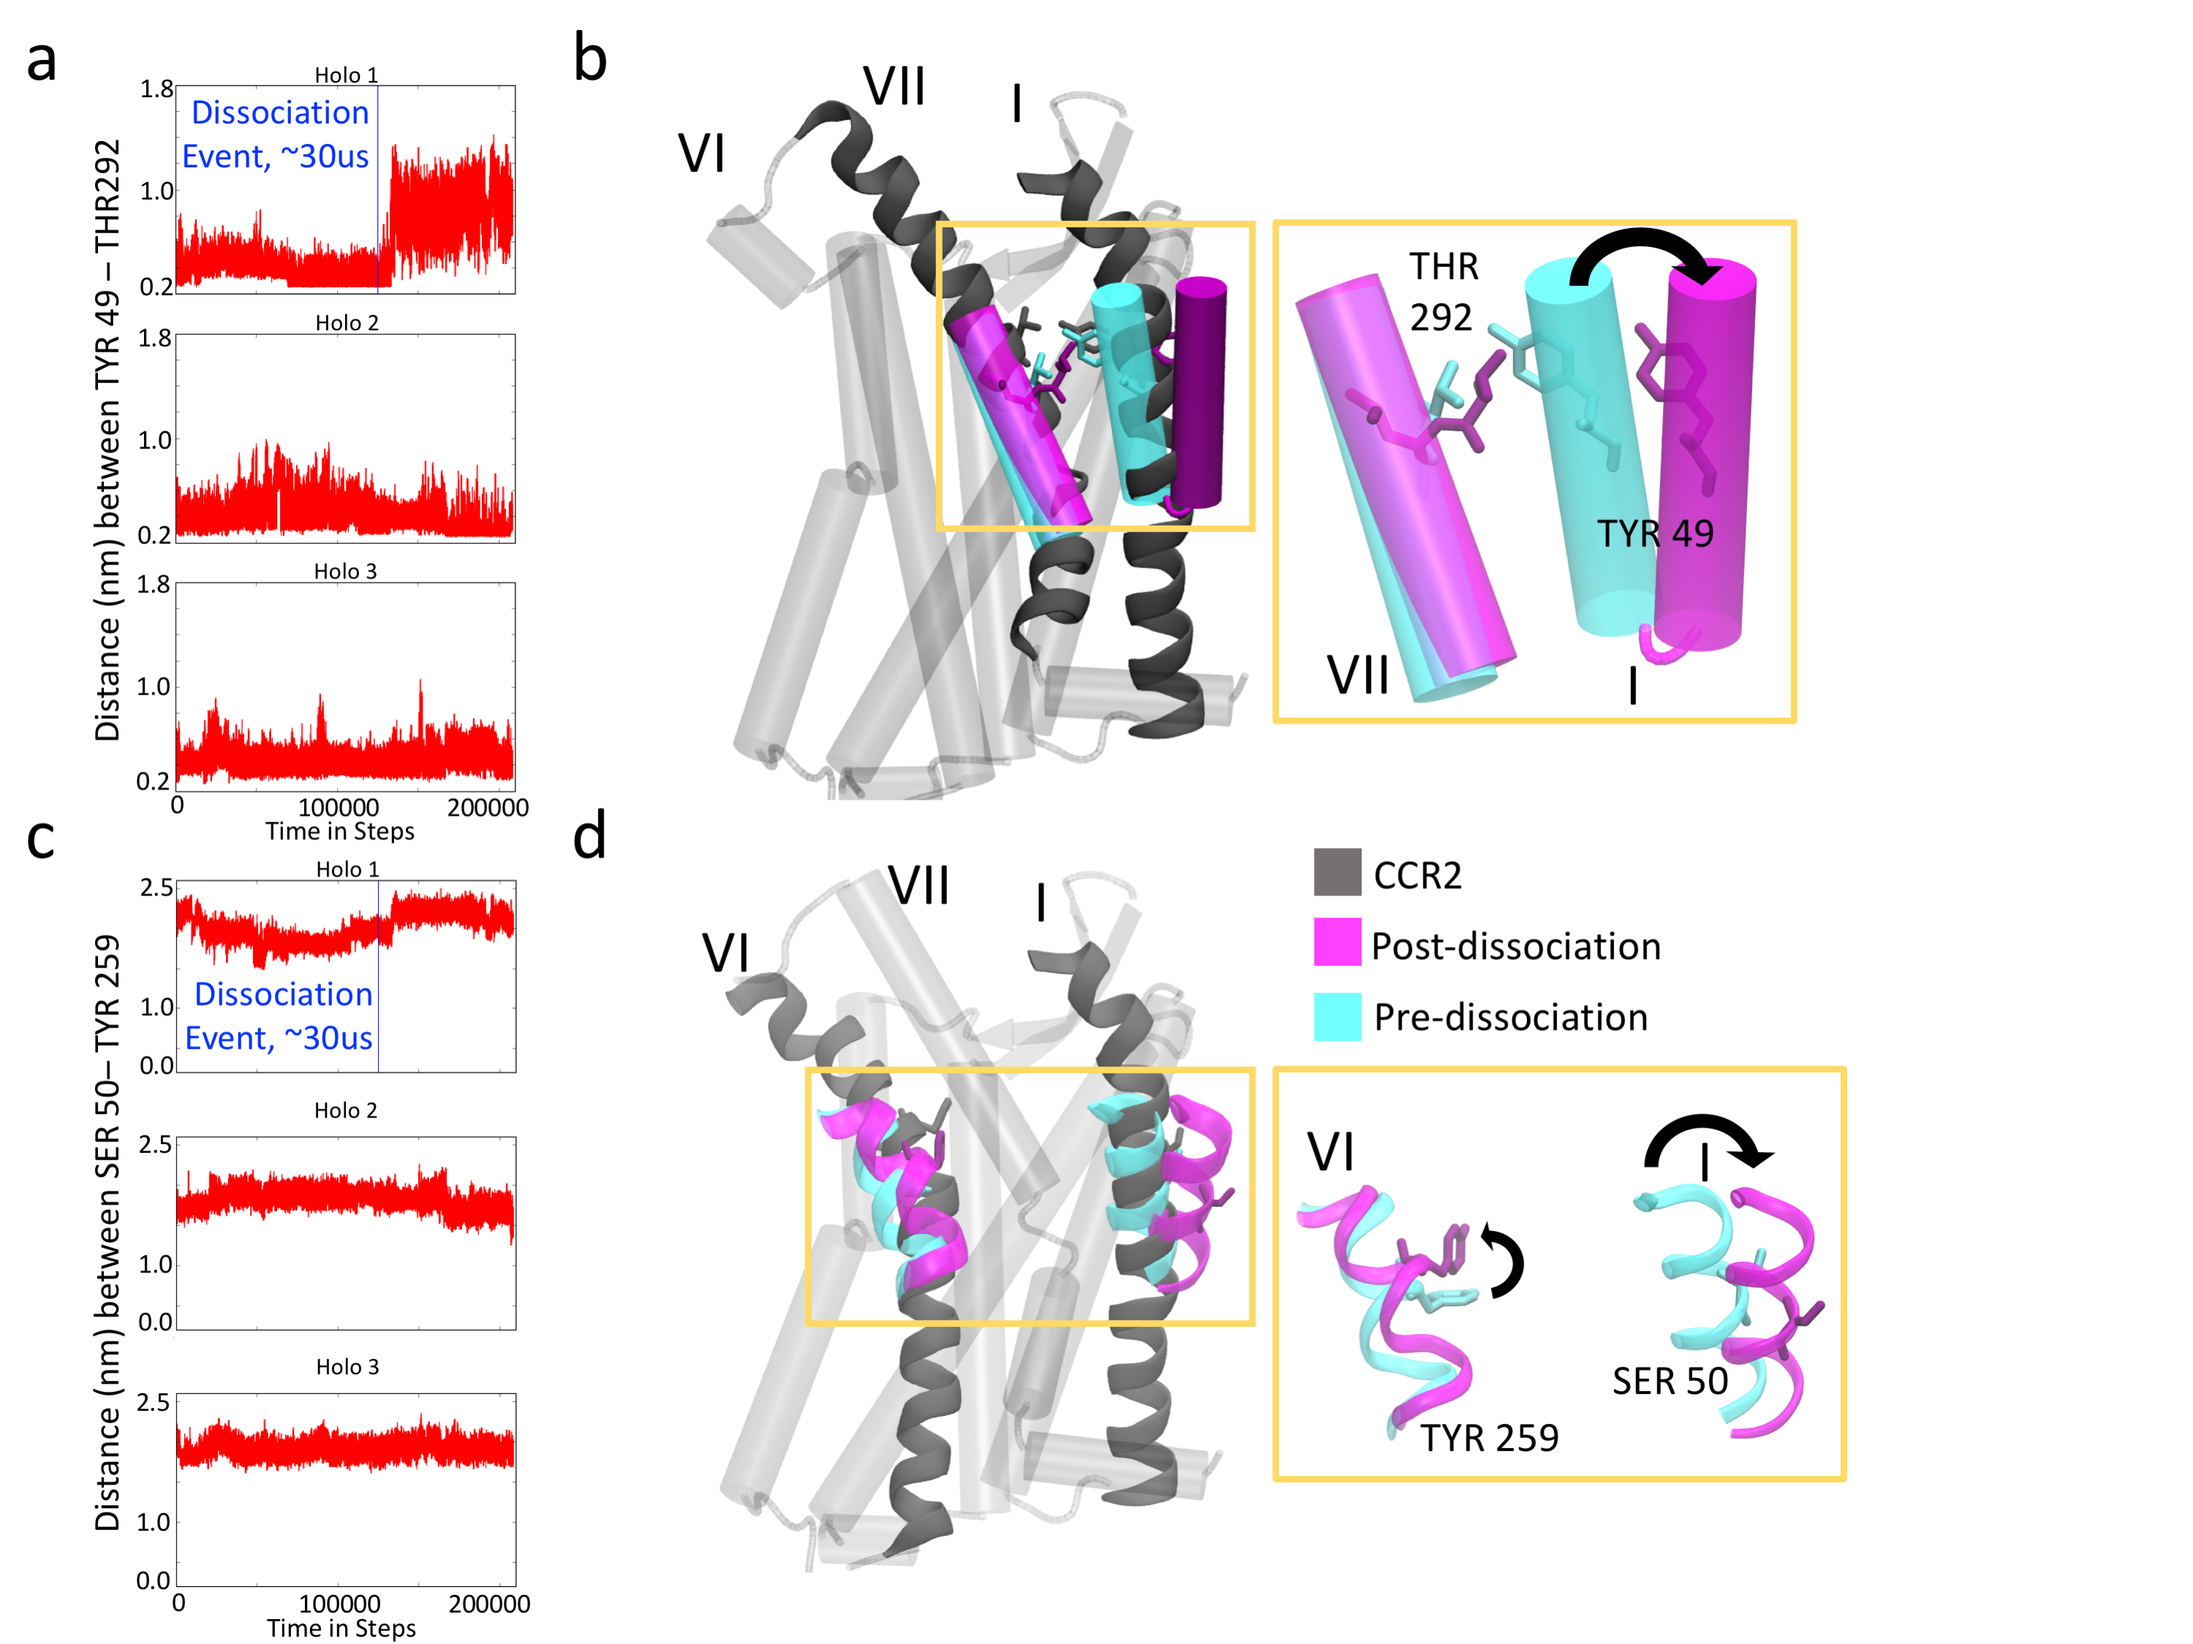
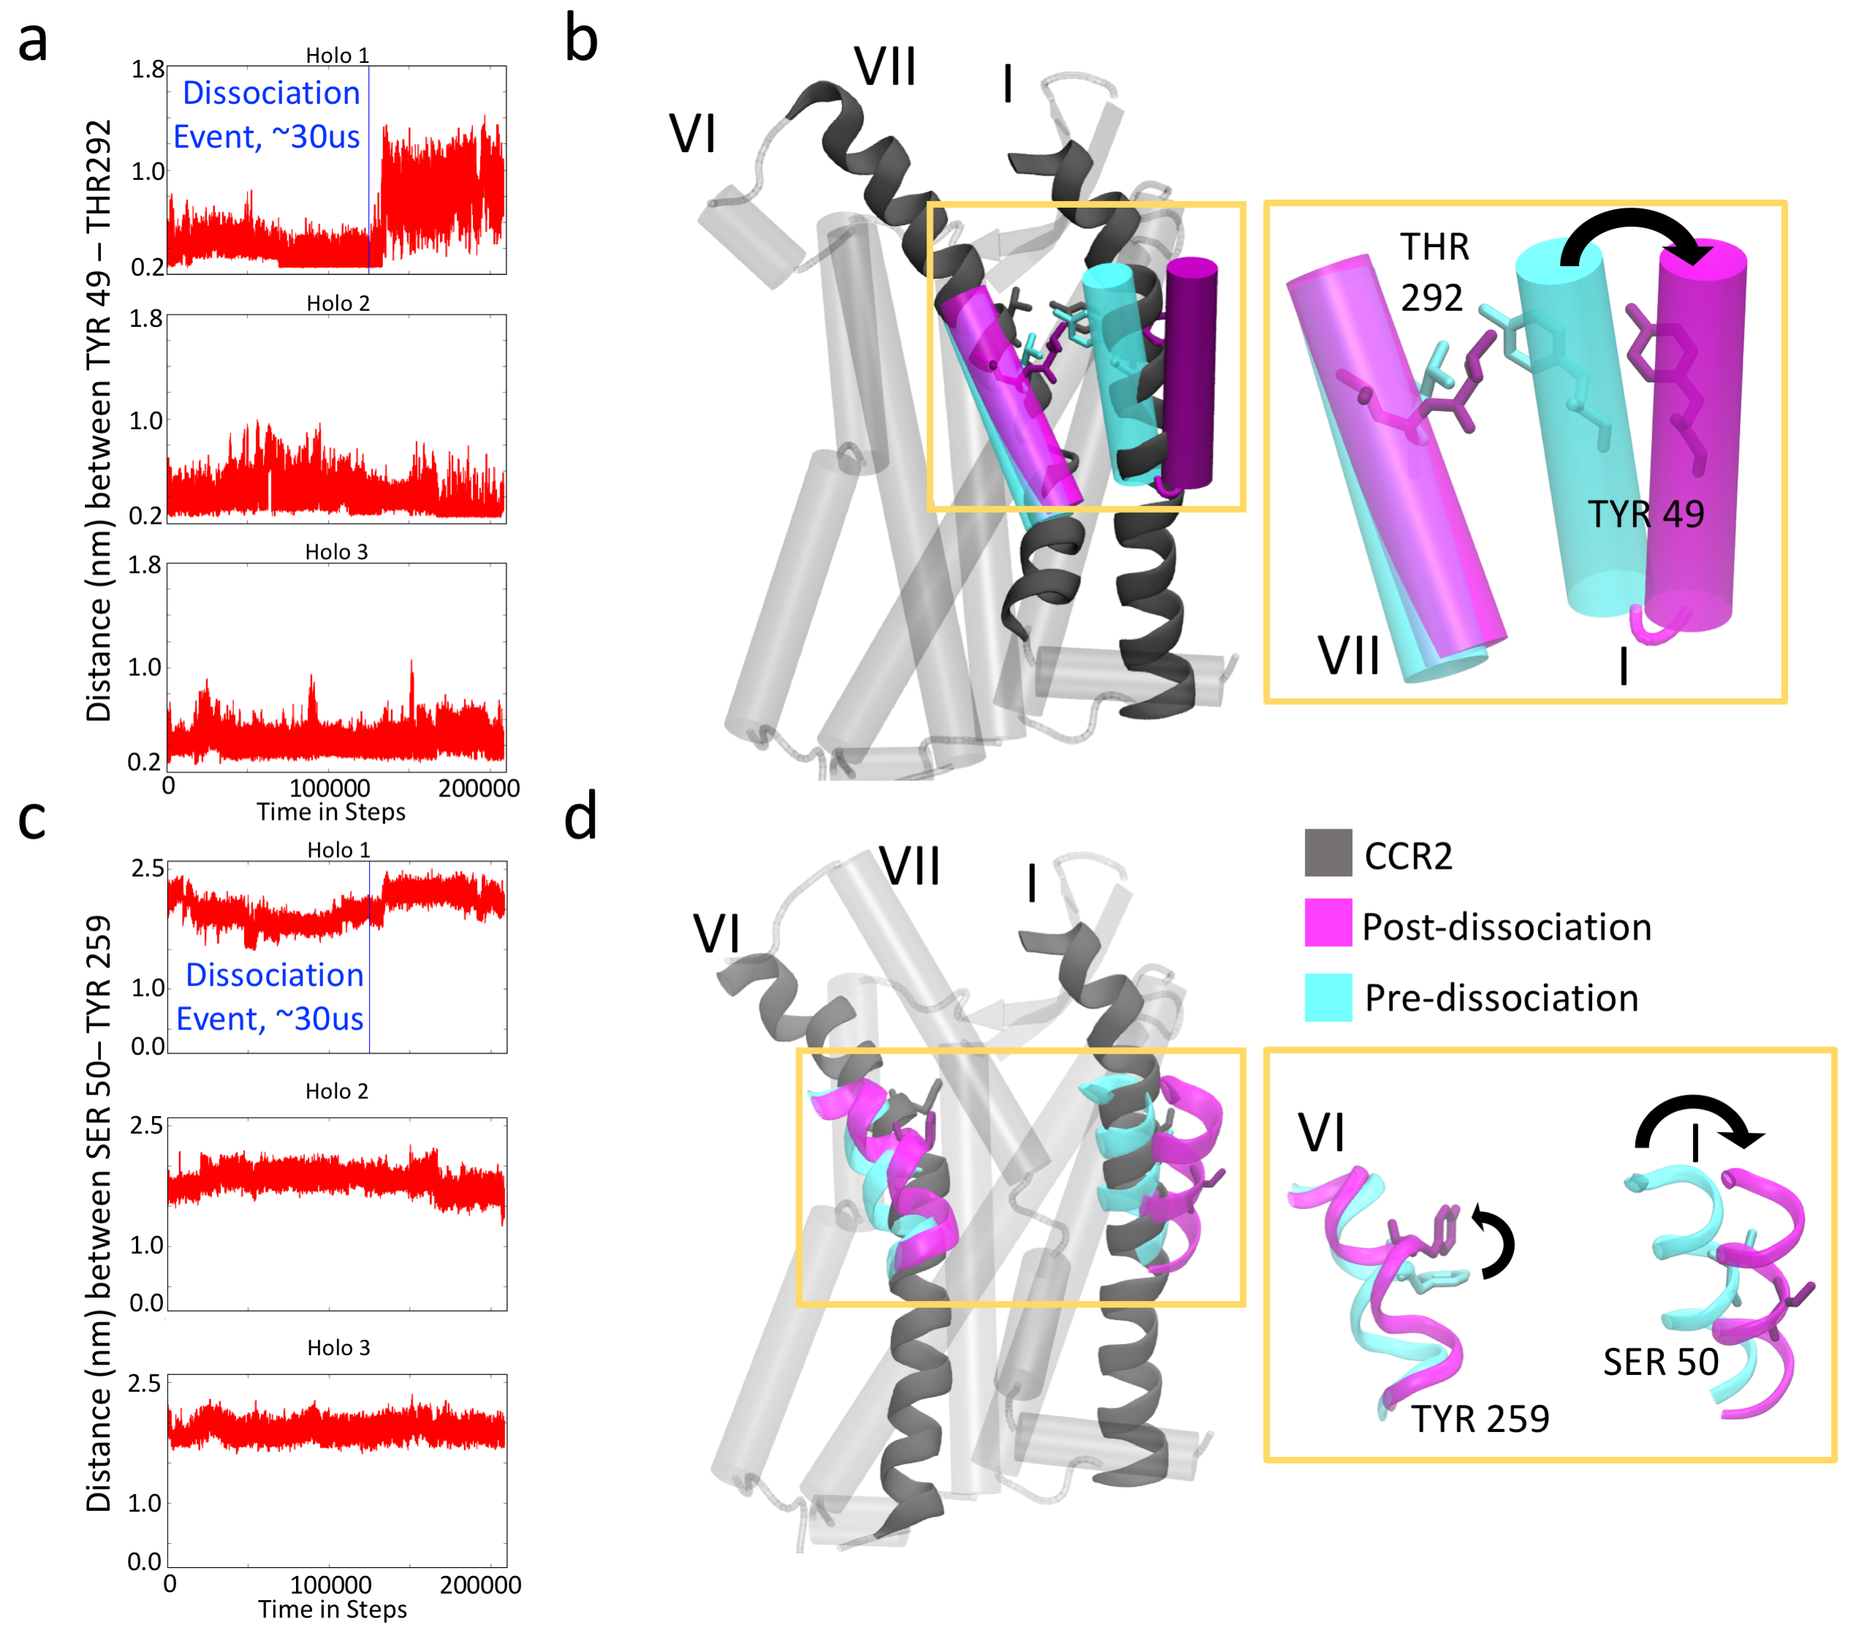
Formatting some figs and centering things

diff --git a/2016-milestone_perm/mileperm2016supp.tex b/2016-milestone_perm/mileperm2016supp.tex
@@ -6,7 +6,7 @@
 
         \par The PMF profile is generated using a piecewise cubic Hermite polynomial (PCHIP) from the following user-specified values: \texttt{dz}, the distance from the center to the edge of the membrane; \texttt{W1}, \texttt{W2}, and \texttt{W3}, the PMF at the interface, between the interface/core, and at the core of the membrane respectively; as well as \texttt{a} and \texttt{b} which correspond to the location of the water bilayer interface and interface/core.  We interpolate the points using \texttt{scipy.interpolate}. Conveniently the PCHIP algorithm allows for both fast computation of the value at any point. Furthermore we can precalculate the first derivative, the negative value of which is the force, as another spline for fast evaluation. The viscosity profile is computed in a similar fashion though requiring additional inputs: \texttt{dz}, the distance from the center to edge of the membrane; \texttt{d1}, \texttt{d2}, \texttt{d3}, and \texttt{d4}, the viscocities in bulk, the interface, interface/core, and core respectively; and \texttt{a}, \texttt{b}, \texttt{c} which specify the location of the interface, interface/core, and core respectively.
 
-        \par The Gr\o nbach-Jensen--Farago integrator is implemented in both Python and C. To generate Gaussian random number in C, we employ the use of the PCG random number generator (RNG)~\cite{ONeill} to sample random integers. These random integers are converted to random uniform floating point numbers by using a bit stream algorithm by Taylor R. Campbell. Uniform floats are then transformed using the Box-Muller algorithm to yield a gaussian random number. The qualities of our C random number generator are compared to that of python library \texttt{numpy} in fig.~\ref{fig:testRNG}. The numpy and C RNGs are seeded off entropy from \texttt{/dev/urandom}. The C integrator is wrapped using the Python/C API allowing it to be called from Python which handles the system setup, configuration, and analysis.
+        \par The Gr\o nbach-Jensen--Farago integrator is implemented in both Python and C. To generate Gaussian random number in C, we employ the use of the PCG random number generator (RNG)~\cite{ONeill} to sample random integers. These random integers are converted to random uniform floating point numbers by using a bit stream algorithm by Taylor R. Campbell. Uniform floats are then transformed using the Box-Muller algorithm to yield a gaussian random number. The qualities of our C random number generator are compared to that of python library \texttt{numpy} in Fig.~\ref{fig:testRNG}. The numpy and C RNGs are seeded off entropy from \texttt{/dev/urandom}. The C integrator is wrapped using the Python/C API allowing it to be called from Python which handles the system setup, configuration, and analysis.
 
         \begin{figure}[!htbp]
         \begin{center}
@@ -17,7 +17,7 @@
         \end{figure}
 
     \subsection{Milestoning Sampling and Efficiency}
-        \par The total number of statistics aggregated during milestoning for each system is shown in fig.~\ref{fig:transitions}. Notably, the statistics consist of only the trajectories which were members of the first hitting point distribution (FHPD). To quantify the efficiency of identifying FHPD members we ran a quick test of the accept rate of the milestone at $z=0$ with adjacent milestones at $z=-1,1$ for 10000 random members with a timestep of $1\times 10^{-15}$~s. We find that the typical rejection rate is upwards of $\approx$90\% (9000) during the reverse phase. While most rejections come about from self-crossing events occurring in the first several timesteps, and thus contribute little to the total computer time, the number of trajectories required to generate a well-explored FHPD is very large, making the compute time of rejections non-trivial. None of the reported statistics account for the number of rejected trajectories.
+        \par The total number of statistics aggregated during milestoning for each system is shown in Fig.~\ref{fig:transitions}. Notably, the statistics consist of only the trajectories which were members of the first hitting point distribution (FHPD). To quantify the efficiency of identifying FHPD members we ran a quick test of the accept rate of the milestone at $z=0$ with adjacent milestones at $z=-1,1$ for 10000 random members with a timestep of $1\times 10^{-15}$~s. We find that the typical rejection rate is upwards of $\approx$90\% (9000) during the reverse phase. While most rejections come about from self-crossing events occurring in the first several timesteps, and thus contribute little to the total computer time, the number of trajectories required to generate a well-explored FHPD is very large, making the compute time of rejections non-trivial. None of the reported statistics account for the number of rejected trajectories.
 
         \begin{figure}[!htbp]
         \begin{center}
@@ -28,7 +28,7 @@
         \end{figure}
 
     \subsection{Sampling Convergence of Crossing Probabilities}
-        \par To quantify the impact of sampling on our confidence in crossing probability, we compute the 95\% confidence of $\rho=0.5$ with respect to a total number of observations. Confidence intervals are estimated using the percentile boostrap over 10,000 resamples. The results are shown in fig.~\ref{fig:bootRho}. Even at $N=200$ the confidence interval is still quite large at $0.07$. The calculation of $\rho$ is a binomial sampling problem, thus the 95\% confidence interval should follow the following solution,
+        \par To quantify the impact of sampling on our confidence in crossing probability, we compute the 95\% confidence of $\rho=0.5$ with respect to a total number of observations. Confidence intervals are estimated using the percentile boostrap over 10,000 resamples. The results are shown in Fig.~\ref{fig:bootRho}. Even at $N=200$ the confidence interval is still quite large at $0.07$. The calculation of $\rho$ is a binomial sampling problem, thus the 95\% confidence interval should follow the following solution,
         \begin{equation}
             CI(95) = 2\rho/\sqrt{N-1}.
         \end{equation}

diff --git a/2018-BCD/2018-BCD.tex b/2018-BCD/2018-BCD.tex
@@ -98,10 +98,12 @@ reproduce both the values and rank ordering of the experimentally determined \ko
 \begin{figure}
 \begin{center}
     \begin{subfigure}[c]{\linewidth}
+    \centering
 	\includegraphics{images/on_scatter_resize.png}
 	\end{subfigure}
 	\bigskip
-	\begin{subfigure}[c]{\linewidth}%<-- changed width
+	\begin{subfigure}[c]{\linewidth}
+    \centering%<-- changed width
         %\renewcommand\tabularxcolumn[1]{m{#1}}% <-- added
         %\renewcommand\arraystretch{1.3}
         %\setlength\tabcolsep{2pt}% <-- added
@@ -150,10 +152,12 @@ order of magnitude.
 \begin{figure}
   \begin{center}
 	\begin{subfigure}[c]{\linewidth}
+    \centering
 	\includegraphics{images/off_scatter_resize.png}
 	\end{subfigure}
 	\bigskip
-	\begin{subfigure}[c]{\linewidth}%<-- changed width
+	\begin{subfigure}[c]{\linewidth}
+    \centering%<-- changed width
         %\renewcommand\tabularxcolumn[1]{m{#1}}% <-- added
         %\renewcommand\arraystretch{1.3}
         %\setlength\tabcolsep{2pt}% <-- added
@@ -200,10 +204,12 @@ free energies can also be obtained from the same simulations (Fig.~\ref{fig:dg_s
 \begin{figure}
   \begin{center}
 	\begin{subfigure}[c]{\linewidth}
+    \centering
 	\includegraphics{images/dg_scatter_resize.png}
 	\end{subfigure}
 	\bigskip
-	\begin{subfigure}[c]{\linewidth}%<-- changed width
+	\begin{subfigure}[c]{\linewidth}
+    \centering%<-- changed width
         %\renewcommand\tabularxcolumn[1]{m{#1}}% <-- added
         %\renewcommand\arraystretch{1.3}
         %\setlength\tabcolsep{2pt}% <-- added

diff --git a/ctl-phd-thesis.tex b/ctl-phd-thesis.tex
@@ -18,7 +18,7 @@
 \documentclass[11pt, oneside, chapterheads, final]{ucsd}
 
 \setlength{\emergencystretch}{3em} % Help for bad boxes!
-\usepackage{showframe}
+% \usepackage{showframe}
 
 \usepackage[utf8]{inputenc}
 \usepackage{mathtools}      % amsmath++
@@ -293,11 +293,11 @@
 \pchapbib
 \end{refsection}
 
-\newpage
-\vspace*{3in}\hfill\begin{center}
-\emph{So long and thanks for all the fish.}\\
----Douglas Adams
-\end{center}
+% \newpage
+% \vspace*{3in}\hfill\begin{center}
+% \emph{So long and thanks for all the fish.}\\
+% ---Douglas Adams
+% \end{center}
 
 %% APPENDIX
 % \appendix
